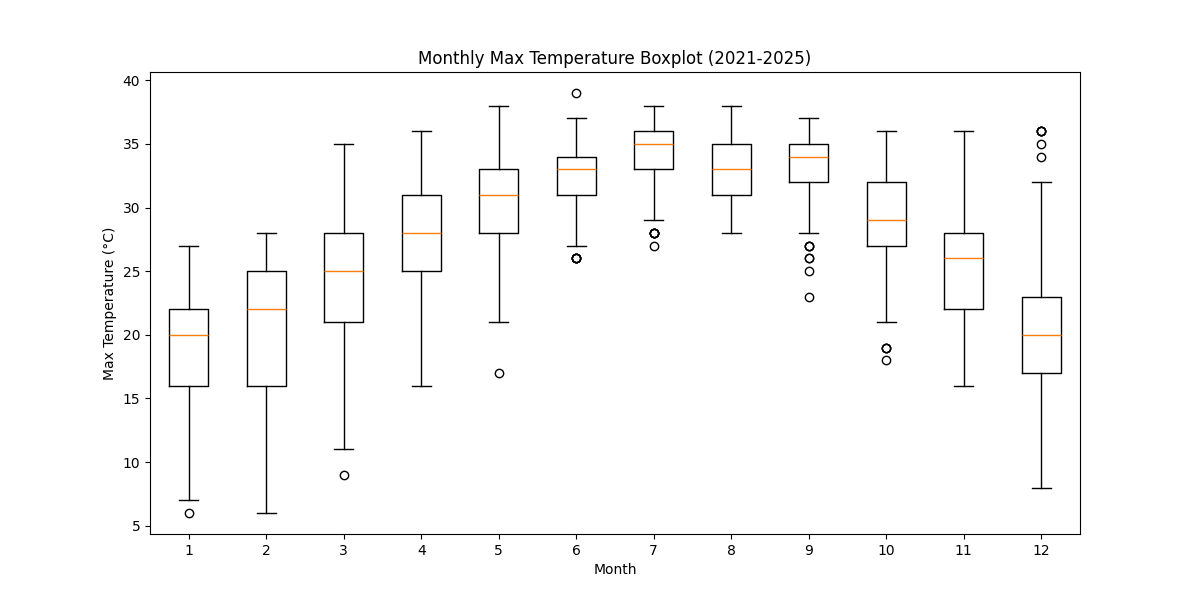
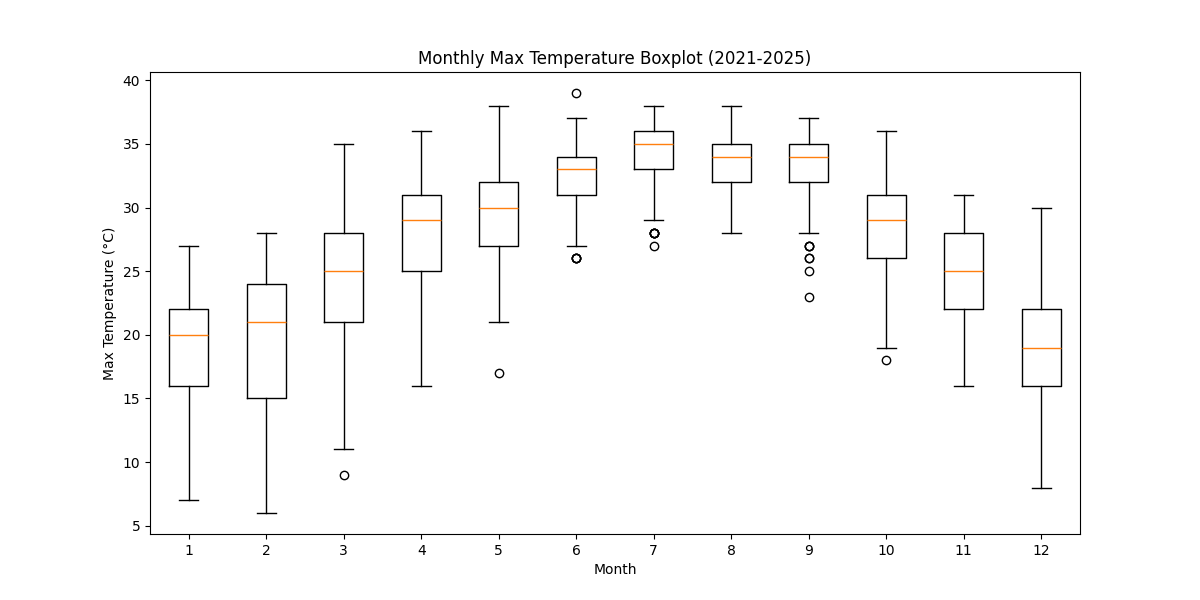
限定采集区间为2021年7月至2025年7月，修复未来月份数据问题

diff --git a/programming.py b/programming.py
@@ -148,9 +148,9 @@ def plot_line_animation(csv_file, gif_file):
 
 # ================== 主流程入口 ==================
 if __name__ == "__main__":
-	# 设置采集区间
-	start_year, start_month = 2021, 1
-	end_year, end_month = 2025, 12
+	# 设置采集区间（仅采集2021年7月至2025年7月）
+	start_year, start_month = 2021, 7
+	end_year, end_month = 2025, 7
 	# 采集数据
 	data = fetch_temperature_data(start_year, start_month, end_year, end_month)
 	# 保存为csv
